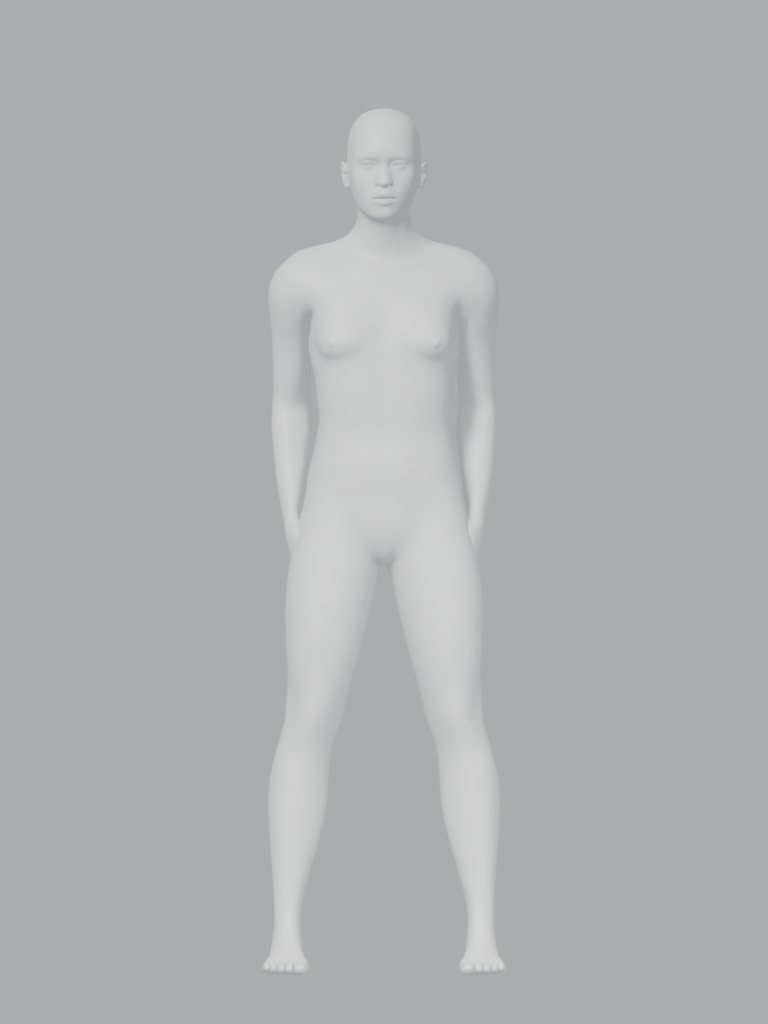
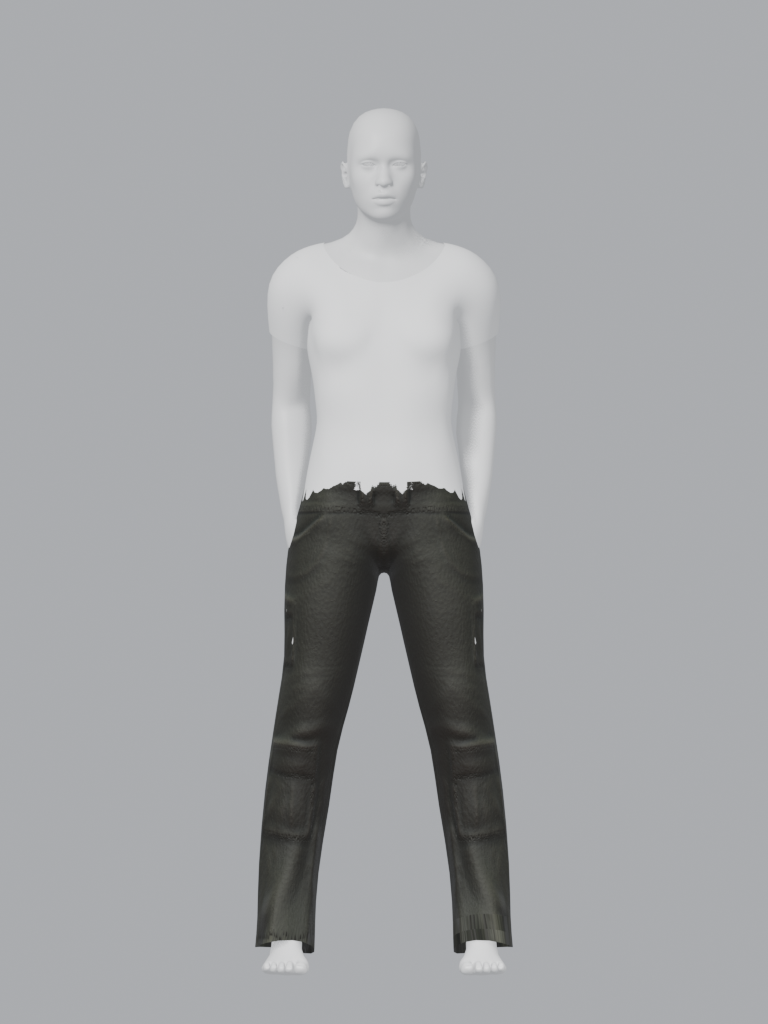
feat(fixtures): dress the MPFB Layer-2 fixture human in CC0 clothing (#27)
The native-fixture humans (shared/native_fixtures/pose_*.png) were nude grey
MPFB base meshes -- functional but a poor public-repo asset. Dress them in CC0
clothing before #22 so Android's ML Kit calibrates against the same dressed
image from the start.

- gen_native_fixtures.py: fit a CC0 crew t-shirt (shirts01) + cargo trousers
  (pants01), both MakeHuman CC0, onto the base mesh via
  HumanService.add_mhclo_asset(material_type="MAKESKIN"), rigged so the clothes
  deform with the posed arms. The one-time asset-pack install is documented in
  the module docstring; a missing asset raises a clear FileNotFoundError.
- Regenerate both pose_*.png (clothed, SFW, same poses/framing).
- Re-extract the recorded Apple Vision skeletons and update
  ios/Tests/Fixtures/vision_skeletons.json -- the frozen Layer-1 data must match
  the committed images. All six keypoints stay above MIN_KEYPOINT_CONFIDENCE
  (0.5) with correct L/R labels; invariants + decode hold (iOS suite green;
  Layer-2 live calibration skips on the simulator, as before).
- Add ios/Tools/extract_vision_skeleton.swift: the host-side Vision body-pose
  extractor (previously ad-hoc in #21), so re-extraction is reproducible. Vision
  body pose runs on the macOS host, not the simulator -- hence a host tool.
- Docs: NATIVE-FIXTURES.md §6 notes the clothed figure + the extractor; CLAUDE.md
  gains a Stack section flagging Blender/MPFB as the fixture-generation tooling.

Changed region(s): [[0.3125, 0.4688, 0.6875, 0.9375]]

diff --git a/ios/Tools/extract_vision_skeleton.swift b/ios/Tools/extract_vision_skeleton.swift
@@ -1,0 +1,62 @@
+// Host-side Apple Vision body-pose extractor — the Epic-3 Layer-2 capture tool.
+//
+// Runs `VNDetectHumanBodyPoseRequest` on a PNG and prints the six upper-body
+// joints in Vision's NATIVE normalized frame (lower-left origin, y-up, x toward
+// the image's right, anatomical L/R labels) — i.e. exactly the
+// `VisionPoseAdapter` INPUT recorded in `ios/Tests/Fixtures/vision_skeletons.json`.
+//
+// Why a host tool: Apple Vision body pose does NOT run on the iOS Simulator
+// ("Unable to setup request"), so the per-platform Layer-1 fixture is captured
+// once on the macOS host (identical Vision framework + lower-left-origin
+// convention) and frozen. See `shared/native_fixtures/NATIVE-FIXTURES.md` §6 and
+// `ios/Tests/VisionCalibrationTests.swift` (the live, device-only Layer-2 pass).
+//
+// Usage (re-run after regenerating the fixtures, then paste into
+// vision_skeletons.json — values come out 4-decimal, the JSON's precision):
+//
+//     swift ios/Tools/extract_vision_skeleton.swift shared/native_fixtures/pose_arms_down.png
+//     swift ios/Tools/extract_vision_skeleton.swift shared/native_fixtures/pose_right_arm_out.png
+
+import Foundation
+import ImageIO
+import Vision
+
+func fail(_ message: String, code: Int32) -> Never {
+    FileHandle.standardError.write((message + "\n").data(using: .utf8)!)
+    exit(code)
+}
+
+guard CommandLine.arguments.count == 2 else {
+    fail("usage: extract_vision_skeleton.swift <image.png>", code: 2)
+}
+let path = CommandLine.arguments[1]
+
+guard let source = CGImageSourceCreateWithURL(URL(fileURLWithPath: path) as CFURL, nil),
+    let image = CGImageSourceCreateImageAtIndex(source, 0, nil)
+else {
+    fail("could not load image \(path)", code: 1)
+}
+
+let request = VNDetectHumanBodyPoseRequest()
+try VNImageRequestHandler(cgImage: image, orientation: .up, options: [:]).perform([request])
+
+guard let observation = request.results?.first else {
+    fail("Vision detected no body pose in \(path) (see NATIVE-FIXTURES.md §6)", code: 3)
+}
+let points = try observation.recognizedPoints(.all)
+
+// Names + Vision joints in the exact order/labels vision_skeletons.json records.
+let joints: [(name: String, joint: VNHumanBodyPoseObservation.JointName)] = [
+    ("left_shoulder", .leftShoulder), ("left_elbow", .leftElbow), ("left_wrist", .leftWrist),
+    ("right_shoulder", .rightShoulder), ("right_elbow", .rightElbow), ("right_wrist", .rightWrist),
+]
+
+func f(_ v: Double) -> String { String(format: "%.4f", v) }
+
+var rows: [String] = []
+for (name, joint) in joints {
+    guard let p = points[joint] else { fail("missing joint \(name) in \(path)", code: 4) }
+    let pad = String(repeating: " ", count: max(1, 15 - name.count))
+    rows.append("  \"\(name)\":\(pad)[\(f(Double(p.location.x))), \(f(Double(p.location.y))), \(f(Double(p.confidence)))]")
+}
+print("{\n" + rows.joined(separator: ",\n") + "\n}")

diff --git a/shared/tools/gen_native_fixtures.py b/shared/tools/gen_native_fixtures.py
@@ -9,10 +9,13 @@ zero faces/bodies/humans on a hand-drawn figure; see NATIVE-FIXTURES.md §6).
 
 So each image is a **3D-rendered human** generated with MPFB
 (https://static.makehumancommunity.org/mpfb.html), the MakeHuman-successor Blender
-add-on. The generated human uses MakeHuman's **CC0** assets (license-clean for an
-OSS repo) and -- even untextured -- is detected by Vision with all six keypoints
-above the 0.5 confidence floor, because the base mesh has real facial/limb
-geometry. Body-pose detection keys on 3D *form*, not photo texture.
+add-on. The human and its clothing are MakeHuman's **CC0** assets (license-clean
+for an OSS repo) and are detected by Vision with all six keypoints above the 0.5
+confidence floor, because the base mesh has real facial/limb geometry. Body-pose
+detection keys on 3D *form*, not photo texture -- so even the untextured grey base
+mesh is detected; the clothing (Issue #27) is a cosmetic upgrade for a nicer
+public-repo asset and does not change the contract (verified: still all six
+keypoints > 0.5 with correct L/R labels after dressing).
 
 The figure is posed via the rig (not pixel-matched to `reference_post_adapter`):
 the invariants are **relational** (NATIVE-FIXTURES.md §4), so any image that
@@ -22,8 +25,17 @@ left, which a correct adapter mirrors to the signer's perspective.
 
 Prerequisites (one-time):
     brew install --cask blender                 # Blender >= 4.2 (extension system)
-    # install the MPFB extension into Blender (id "mpfb"), e.g. from
-    # https://extensions.blender.org/add-ons/mpfb/ , then enable it once.
+    # 1. install the MPFB extension into Blender (id "mpfb"), e.g. from
+    #    https://extensions.blender.org/add-ons/mpfb/ , then enable it once.
+    # 2. install the two CC0 clothing packs MPFB looks for in its clothes dir
+    #    (see CLOTHING below). Easiest: in Blender, MPFB tab -> Assets ->
+    #    "Asset packs", or download + unzip into the MPFB user-data clothes dir:
+    #      https://static.makehumancommunity.org/assets/assetpacks/shirts01.html
+    #      https://static.makehumancommunity.org/assets/assetpacks/pants01.html
+    #    (shirts01_cc0.zip + pants01_cc0.zip; both CC0). The unzipped layout is
+    #    <mpfb-user-data>/clothes/<asset>/<asset>.mhclo, which is what CLOTHING
+    #    resolves to via LocationService. If the assets are missing the script
+    #    raises a FileNotFoundError naming the expected path.
 
 Run:
     blender --background --python shared/tools/gen_native_fixtures.py
@@ -42,12 +54,47 @@ MPFB_MODULE = "bl_ext.user_default.mpfb"
 POSES = ("arms_down", "right_arm_out")
 DOWN = (0, 0, -1)
 
+# CC0 clothing fitted onto the base mesh (Issue #27): a plain crew t-shirt + full
+# cargo trousers -> a clothed, SFW public-repo asset. Paths are relative to the
+# MPFB user-data dir (resolved via LocationService); install the shirts01 +
+# pants01 CC0 packs as described in the module docstring.
+CLOTHING = (
+    "clothes/elvs_crude_t-shirt_male/elvs_crude_t-shirt_male.mhclo",
+    "clothes/cortu_cargo_pants/cortu_cargo_pants.mhclo",
+)
+
 
 def _human_service():
     bpy.ops.preferences.addon_enable(module=MPFB_MODULE)
     return __import__(
         MPFB_MODULE + ".services.humanservice", fromlist=["HumanService"]
     ).HumanService
+
+
+def _dress(human_service, basemesh):
+    """Fit the CC0 CLOTHING assets onto `basemesh`, rigged to the same armature
+    so they deform with the body when the arms are posed. MAKESKIN materials keep
+    the asset textures; the clothes follow the rig via interpolated weights."""
+    location_service = __import__(
+        MPFB_MODULE + ".services.locationservice", fromlist=["LocationService"]
+    ).LocationService
+    for rel_path in CLOTHING:
+        mhclo = location_service.get_user_data(rel_path)
+        if not Path(mhclo).is_file():
+            raise FileNotFoundError(
+                f"clothing asset not found: {mhclo}\n"
+                "Install the CC0 shirts01 + pants01 packs (see this file's docstring)."
+            )
+        human_service.add_mhclo_asset(
+            mhclo,
+            basemesh,
+            asset_type="Clothes",
+            material_type="MAKESKIN",
+            set_up_rigging=True,
+            interpolate_weights=True,
+            import_subrig=False,
+            import_weights=False,
+        )
 
 
 def _aim(arm, shoulder_bone, end_bone, target_dir):
@@ -78,6 +125,9 @@ def build_and_render(pose_name, out_path):
     basemesh = human_service.create_human()
     human_service.add_builtin_rig(basemesh, "default")
     arm = next(o for o in bpy.data.objects if o.type == "ARMATURE")
+    bpy.context.view_layer.update()
+
+    _dress(human_service, basemesh)
     bpy.context.view_layer.update()
 
     # Figure's anatomical right (horizontal) derived from the shoulder line, so

diff --git a/shared/native_fixtures/NATIVE-FIXTURES.md b/shared/native_fixtures/NATIVE-FIXTURES.md
@@ -118,10 +118,19 @@ one — because pose estimators are trained on real people and key on 3D **form*
 not texture. A rigged 3D human, **even untextured**, is detected with all six
 keypoints above the `MIN_KEYPOINT_CONFIDENCE` floor, because its base mesh carries
 real facial/limb geometry (a *featureless* mannequin, by contrast, makes Vision
-flip the L/R labels — §3b — so the mesh's face matters). If an estimator still
-can't read an image, **swap in a real photo of the same pose** — the invariants are
-relational and image-agnostic, so the contract (this file + `invariants.json`) is
-unaffected by the swap.
+flip the L/R labels — §3b — so the mesh's face matters). The figure is **dressed**
+in CC0 clothing (a t-shirt + trousers, Issue #27) for a nicer public-repo asset;
+detection still clears the floor on all six keypoints with correct L/R labels
+(re-verified after dressing). If an estimator still can't read an image, **swap in
+a real photo of the same pose** — the invariants are relational and image-agnostic,
+so the contract (this file + `invariants.json`) is unaffected by the swap.
+
+The recorded iOS skeleton in `vision_skeletons.json` is captured from these
+committed images by the host tool
+[`../../ios/Tools/extract_vision_skeleton.swift`](../../ios/Tools/extract_vision_skeleton.swift)
+(`swift ios/Tools/extract_vision_skeleton.swift <image>`); re-run it after
+regenerating the fixtures and paste the result back. Body pose runs on the macOS
+host, not the iOS Simulator — hence a host tool rather than a simulator test.
 
 > **Platform note — Apple Vision body pose does not run on the iOS Simulator**
 > (`VNDetectHumanBodyPoseRequest` → "unable to setup request"). iOS Layer-2

diff --git a/CLAUDE.md b/CLAUDE.md
@@ -5,8 +5,31 @@ _(One-paragraph project description. See `README.md` and
 
 ## Stack
 
-_(Language, framework, build tool — anything an outside contributor or
-visiting agent benefits from at a glance.)_
+Parallel **native** apps over a shared, language-neutral contract — no
+cross-platform UI framework (the parity discipline is the point):
+
+- **iOS** — Swift / SwiftUI / AVFoundation / Vision (Core ML for the
+  trained classifier in a later epic). Project generated from
+  `ios/project.yml` via [XcodeGen](https://github.com/yonsm/XcodeGen).
+- **Android** — Kotlin / Jetpack Compose / CameraX / ML Kit / LiteRT.
+- **`shared/`** — the frozen, language-neutral contract both platforms
+  load verbatim (`*.json`): the alphabet, the adapter/keypoint contracts,
+  the parity test vectors, and the native-fixture invariants.
+- **`model/`** — off-device training in Python (`uv`).
+
+### Dev tooling — Blender / MPFB for test fixtures
+
+The Epic-3 native-fixture **images** (`shared/native_fixtures/pose_*.png`)
+are 3D-rendered humans generated headlessly with **Blender + the
+[MPFB](https://static.makehumancommunity.org/mpfb.html) add-on** (MakeHuman
+**CC0** assets, clothing included). They exist because Apple Vision / ML Kit
+only detect real-ish 3D human *form*, not flat drawings — so the Layer-2
+adapter calibration needs a detectable figure. The renderer is
+`shared/tools/gen_native_fixtures.py` (see its docstring for the one-time
+Blender + MPFB + CC0-clothing-pack setup). Blender is **only** needed to
+regenerate those fixtures; it is not required to build or test either app.
+
+
 
 ## Repo conventions
 
